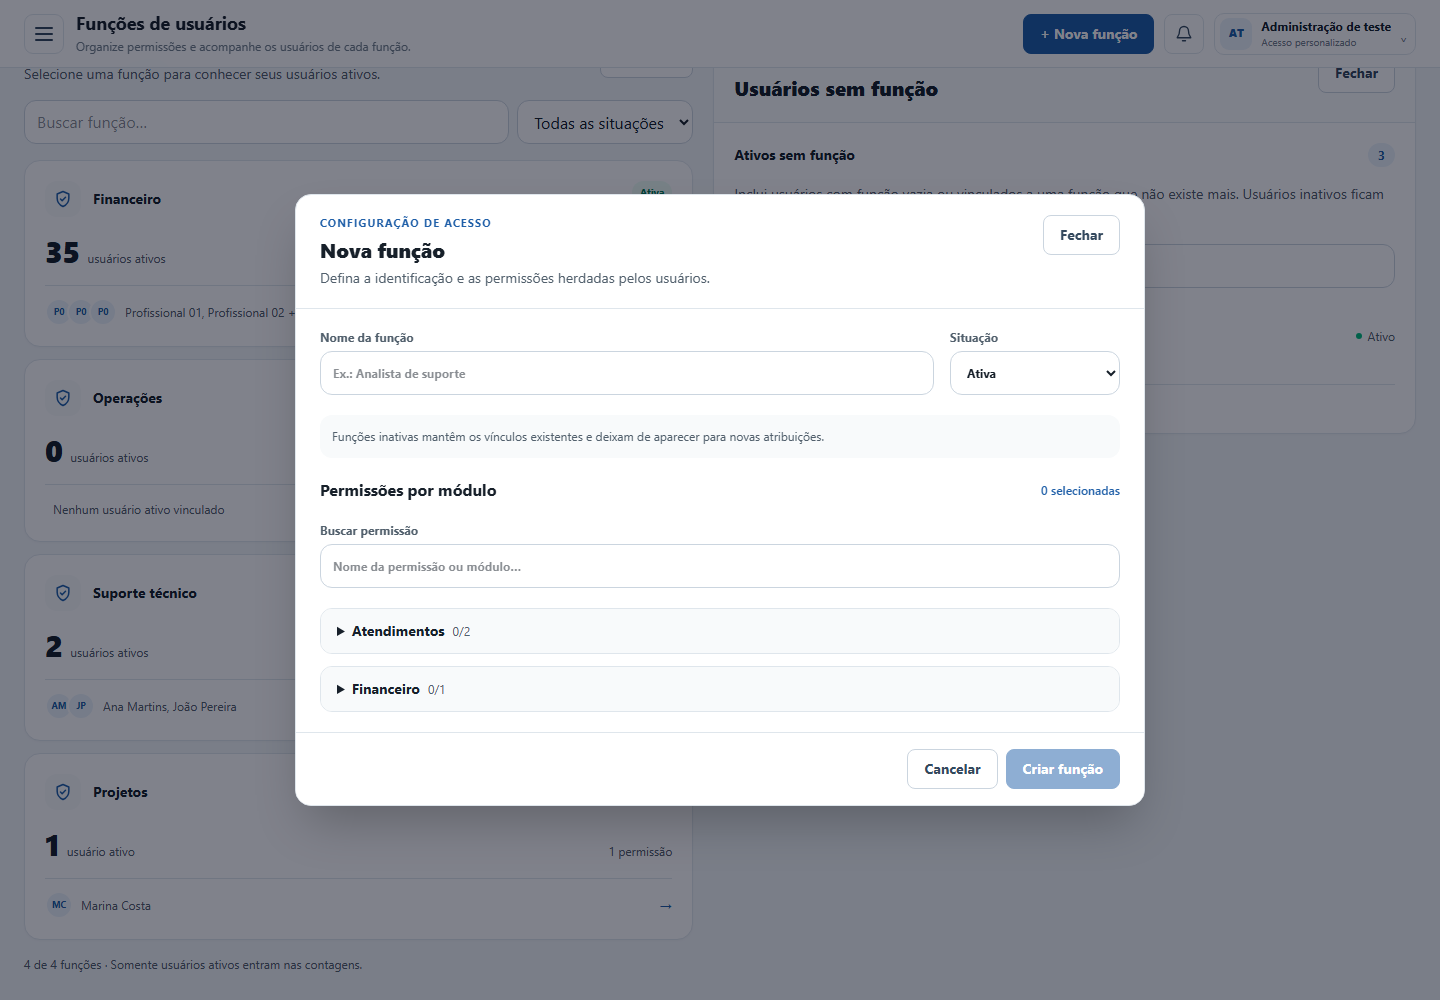
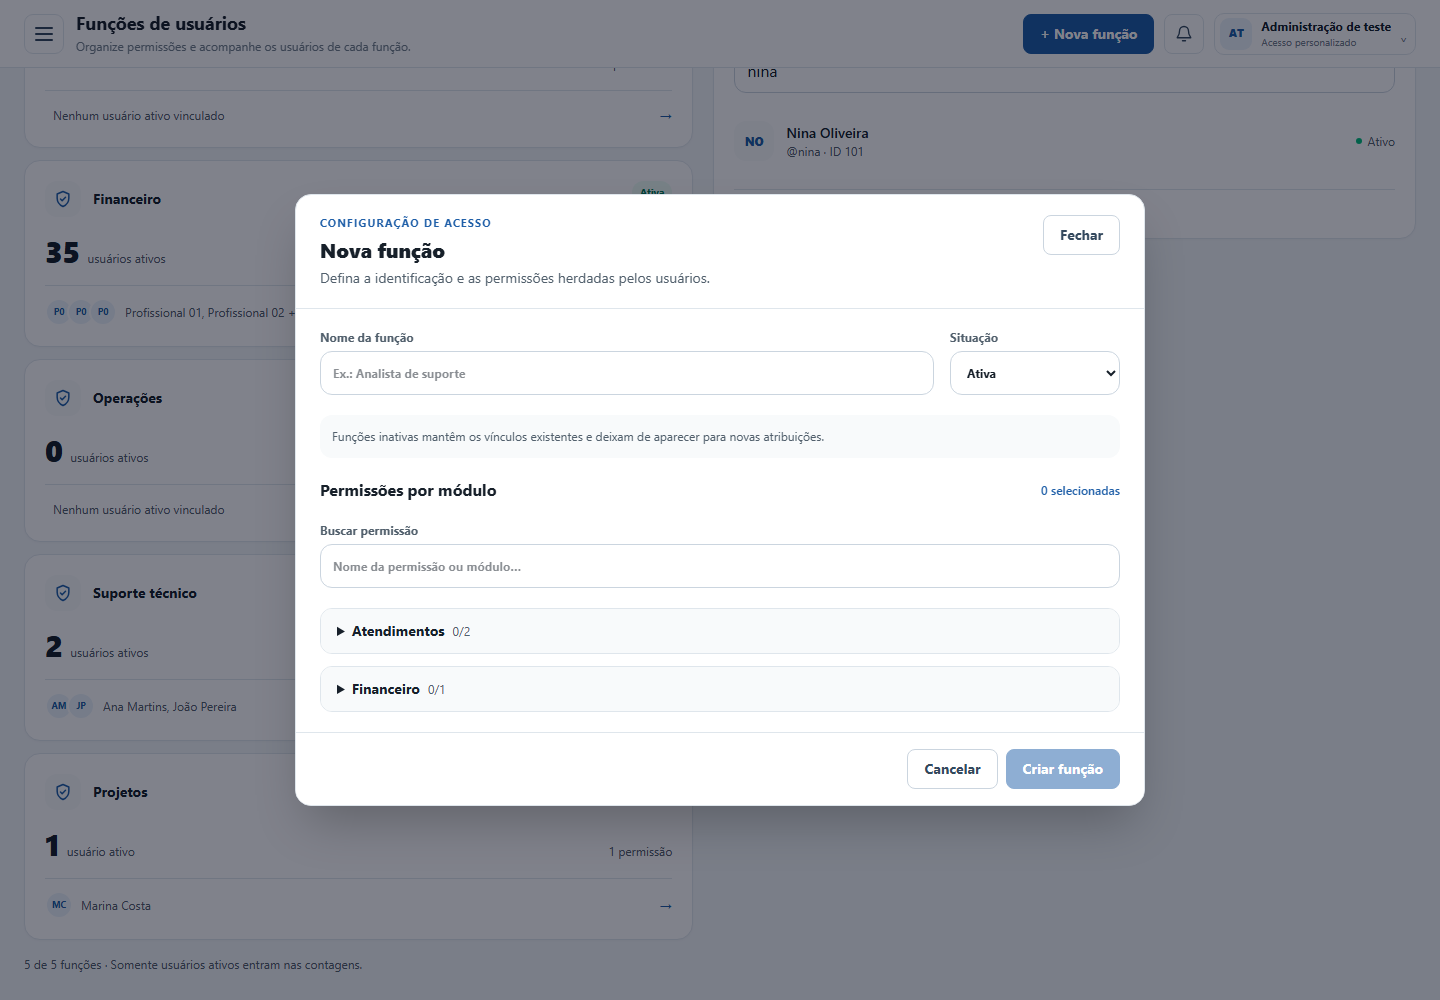
fix(users): allow deleting functions without active users

diff --git a/apps/web/src/modules/users/components/user-functions-screen.tsx b/apps/web/src/modules/users/components/user-functions-screen.tsx
@@ -1,6 +1,6 @@
 "use client";
 
-import type { CurrentUserResponse, UserFunctionInput } from '@helpdesk/contracts';
+import type { CurrentUserResponse, UserFunctionInput, UserFunctionSummary } from '@helpdesk/contracts';
 import { useEffect, useMemo, useState } from 'react';
 import { AppPageHeader } from '../../../shared/navigation/app-page-header';
 import { NavigationIcon } from '../../../shared/navigation/navigation-icon';
@@ -27,6 +27,7 @@ export function UserFunctionsScreen({ currentUser }: { currentUser: CurrentUserR
   const [selection, setSelection] = useState<Selection>(null);
   const [editor, setEditor] = useState<number | 'new' | null>(null);
   const [loading, setLoading] = useState(true);
+  const [deleting, setDeleting] = useState(false);
   const [search, setSearch] = useState('');
   const [status, setStatus] = useState('all');
   const [error, setError] = useState('');
@@ -67,11 +68,15 @@ export function UserFunctionsScreen({ currentUser }: { currentUser: CurrentUserR
     setSuccess(editor === 'new' ? 'Função criada com sucesso.' : 'Função atualizada com sucesso.');
     setEditor(null); setSelection(result.id); await reload();
   }
-  async function remove() {
-    if (!editorInitial || editorInitial.linkedUserCount > 0) return;
-    if (!window.confirm(`Excluir a função "${editorInitial.name}"?`)) return;
-    await deleteUserFunction(editorInitial.id);
-    setEditor(null); setSelection(null); setSuccess('Função excluída.'); await reload();
+  async function remove(target: UserFunctionSummary) {
+    if (target.activeUserCount > 0) return;
+    const note = target.linkedUserCount > 0 ? ` Os ${target.linkedUserCount} cadastros vinculados serão preservados e ficarão sem função.` : '';
+    if (!window.confirm(`Excluir a função "${target.name}"?${note}`)) return;
+    setDeleting(true); setError('');
+    try {
+      await deleteUserFunction(target.id);
+      setEditor(null); setSelection(null); setSuccess('Função excluída. Os cadastros de usuários foram preservados.'); await reload();
+    } finally { setDeleting(false); }
   }
 
   return <main className="min-h-screen bg-app-bg text-app-text max-sm:[&>header]:flex-wrap max-sm:[&>header]:gap-2 max-sm:[&>header>div:last-child]:w-full">
@@ -106,7 +111,7 @@ export function UserFunctionsScreen({ currentUser }: { currentUser: CurrentUserR
 
         {hasDetails ? <section className={`${CARD} min-w-0 overflow-hidden`} aria-labelledby="function-details-title">
           <header className="border-b border-app-border bg-app-surface-muted/50 p-5"><div className="flex items-start justify-between gap-3"><div><p className="mb-1 mt-0 text-[11px] font-bold uppercase tracking-widest text-app-muted">{isUnassigned ? 'Revisão de cadastros' : 'Detalhes da função'}</p><h2 id="function-details-title" className="m-0 break-words text-xl font-extrabold">{isUnassigned ? 'Usuários sem função' : selected?.name}</h2></div><button type="button" className={SECONDARY} aria-label="Fechar detalhes da função" onClick={() => setSelection(null)}>Fechar</button></div>
-            {selected ? <div className="mt-4 flex flex-wrap items-center justify-between gap-2"><span className="text-xs text-app-muted">{selected.linkedUserCount} vínculos no total, incluindo usuários inativos</span><button type="button" className={SECONDARY} disabled={loading} onClick={() => { setEditor(selected.id); setSuccess(''); }}>Editar função</button></div> : null}
+            {selected ? <div className="mt-4 grid gap-3"><span className="text-xs text-app-muted">{selected.linkedUserCount} vínculos no total, incluindo usuários inativos</span><div className="flex flex-wrap gap-2"><button type="button" className={SECONDARY} disabled={loading || deleting} onClick={() => { setEditor(selected.id); setSuccess(''); }}>Editar função</button><button type="button" className={SECONDARY} disabled={loading || deleting || selected.activeUserCount > 0} title={selected.activeUserCount > 0 ? 'Esta função possui usuários ativos.' : 'Excluir a função e preservar os cadastros inativos.'} onClick={() => void remove(selected).catch(reason => setError(functionApiMessage(reason)))}>{deleting ? 'Excluindo…' : 'Excluir função'}</button></div>{selected.activeUserCount === 0 ? <span className="text-xs text-app-muted">Sem usuários ativos: a função pode ser excluída. Os cadastros inativos serão mantidos e ficarão sem função.</span> : null}</div> : null}
             {selected?.status === 2 ? <p className="mb-0 mt-3 text-xs text-app-muted">Esta função está inativa, mas mantém os usuários já vinculados.</p> : null}
           </header>
           <div className="p-5"><UserFunctionMembers key={String(selection)} users={selectedMembers} unassigned={isUnassigned} /></div>
@@ -114,6 +119,6 @@ export function UserFunctionsScreen({ currentUser }: { currentUser: CurrentUserR
         </section> : null}
       </div>
     </div>
-    {editor !== null && data ? <UserFunctionEditor key={editor} initial={editorInitial} permissions={data.permissions} onSave={save} onDelete={editorInitial ? remove : undefined} onClose={() => setEditor(null)} /> : null}
+    {editor !== null && data ? <UserFunctionEditor key={editor} initial={editorInitial} permissions={data.permissions} onSave={save} onDelete={editorInitial ? () => remove(editorInitial) : undefined} onClose={() => setEditor(null)} /> : null}
   </main>;
 }

diff --git a/apps/api/src/modules/users/infrastructure/user-functions.repository.ts b/apps/api/src/modules/users/infrastructure/user-functions.repository.ts
@@ -17,7 +17,6 @@ type FunctionRow = {
   linked_user_count: number | bigint;
 };
 type IdRow = { id: number | bigint };
-type CountRow = { total: number | bigint };
 type PermissionRow = { id: number | bigint; name: string; slug: string; module: string; description: string | null };
 type PermissionLinkRow = { function_id: number; permission_id: number | bigint };
 
@@ -116,20 +115,22 @@ export class UserFunctionsRepository {
   }
 
   async remove(id: number): Promise<void> {
-    await this.assertExists(id);
-    const rows = await this.database.$queryRawUnsafe<CountRow[]>(
-      'SELECT COUNT(*) AS total FROM usuarios WHERE user_funcao = ?',
-      id,
-    );
-    const linked = Number(rows[0]?.total ?? 0);
-    if (linked > 0) {
-      throw new ConflictException(
-        `Esta função possui ${linked} usuário(s) vinculado(s). Remova os vínculos ou deixe a função inativa antes de excluí-la.`,
-      );
-    }
     await this.database.$transaction(async (transaction) => {
-      await transaction.$executeRawUnsafe('DELETE FROM cargos_n3 WHERE cargo_id = ?', id);
-      await transaction.$executeRawUnsafe('DELETE FROM roles WHERE slug = ?', `function-${id}`);
+      const functions = await transaction.$queryRawUnsafe<IdRow[]>(
+        'SELECT cargo_id AS id FROM dbo.cargos_n3 WITH (XLOCK, HOLDLOCK) WHERE cargo_id = @P1', id,
+      );
+      if (!functions[0]) throw new NotFoundException('Função de usuário não encontrada.');
+      const users = await transaction.$queryRawUnsafe<Array<{ user_sts: number | null }>>(
+        'SELECT user_sts FROM dbo.usuarios WITH (UPDLOCK, HOLDLOCK) WHERE user_funcao = @P1', id,
+      );
+      const active = users.filter(user => user.user_sts === 1).length;
+      if (active > 0) throw new ConflictException(
+        `Esta função possui ${active} usuário(s) ativo(s). Reatribua ou desative esses usuários antes de excluí-la.`,
+      );
+      // Preserve inactive accounts, clearing their assignment before removing the function.
+      await transaction.$executeRawUnsafe('UPDATE dbo.usuarios SET user_funcao = NULL WHERE user_funcao = @P1', id);
+      await transaction.$executeRawUnsafe('DELETE FROM dbo.cargos_n3 WHERE cargo_id = @P1', id);
+      await transaction.$executeRawUnsafe('DELETE FROM dbo.roles WHERE slug = @P1', `function-${id}`);
     });
   }
 

diff --git a/apps/api/src/modules/users/infrastructure/users.repository.ts b/apps/api/src/modules/users/infrastructure/users.repository.ts
@@ -1,4 +1,4 @@
-import { Inject, Injectable } from '@nestjs/common';
+import { Inject, Injectable, NotFoundException } from '@nestjs/common';
 import type {
   AccessPermissionItem,
   CreateManagedUserRequest,
@@ -277,6 +277,7 @@ export class UsersRepository {
     canManageAccess: boolean,
   ): Promise<number> {
     return this.database.$transaction(async (transaction) => {
+      await this.assertFunctionExists(transaction, input.functionId);
       const ids = await transaction.$queryRawUnsafe<InsertIdRow[]>(
         `INSERT INTO usuarios
           (user_sts, user_nome, user_mail, user_cel, user_funcao, user_login,
@@ -303,6 +304,7 @@ export class UsersRepository {
     assignedBy: number,
   ): Promise<boolean> {
     return this.database.$transaction(async (transaction) => {
+      await this.assertFunctionExists(transaction, input.functionId);
       const changed = await transaction.$executeRawUnsafe(
         `UPDATE usuarios SET user_sts = ?, user_nome = ?, user_mail = ?,
           user_cel = ?, user_funcao = ?, user_login = ?, tipo_usuario = ?,
@@ -319,6 +321,13 @@ export class UsersRepository {
       }
       return true;
     });
+  }
+
+  private async assertFunctionExists(transaction: Pick<Nivel3DatabaseClient, '$queryRawUnsafe'>, functionId: number) {
+    const rows = await transaction.$queryRawUnsafe<Array<{ id: number }>>(
+      'SELECT cargo_id AS id FROM dbo.cargos_n3 WITH (HOLDLOCK) WHERE cargo_id = @P1', functionId,
+    );
+    if (!rows.length) throw new NotFoundException('A função selecionada não existe mais. Atualize o cadastro e escolha outra função.');
   }
 
   async deactivate(id: number): Promise<boolean> {

diff --git a/apps/web/src/modules/users/components/user-function-editor.tsx b/apps/web/src/modules/users/components/user-function-editor.tsx
@@ -63,7 +63,7 @@ export function UserFunctionEditor({ initial, permissions, onSave, onDelete, onC
         </fieldset>
       </form>
       <footer className="flex flex-wrap justify-end gap-2 border-t border-app-border bg-app-surface px-6 py-4">
-        {initial && onDelete ? <button type="button" className={`${appButtonClass('secondary')} mr-auto`} disabled={busy || initial.linkedUserCount > 0} title={initial.linkedUserCount > 0 ? 'Esta função possui usuários vinculados, incluindo inativos.' : undefined} onClick={async () => { setBusy(true); setError(''); try { await onDelete(); } catch (reason) { setError(functionApiMessage(reason)); } finally { setBusy(false); } }}>Excluir função</button> : null}
+        {initial && onDelete ? <button type="button" className={`${appButtonClass('secondary')} mr-auto`} disabled={busy || initial.activeUserCount > 0} title={initial.activeUserCount > 0 ? 'Reatribua ou desative os usuários ativos antes de excluir.' : 'Os cadastros inativos serão preservados e ficarão sem função.'} onClick={async () => { setBusy(true); setError(''); try { await onDelete(); } catch (reason) { setError(functionApiMessage(reason)); } finally { setBusy(false); } }}>Excluir função</button> : null}
         <button type="button" className={appButtonClass('secondary')} disabled={busy} onClick={() => dialog.current?.close()}>Cancelar</button>
         <button type="submit" form="user-function-editor-form" className={appButtonClass('primary')} disabled={busy || !form.name.trim()}>{busy ? 'Salvando…' : initial ? 'Salvar alterações' : 'Criar função'}</button>
       </footer>

diff --git a/apps/api/src/modules/users/presentation/http/user-functions.controller.ts b/apps/api/src/modules/users/presentation/http/user-functions.controller.ts
@@ -94,7 +94,7 @@ export class UserFunctionsController {
 
   @Delete(':id')
   @HttpCode(HttpStatus.NO_CONTENT)
-  @ApiOperation({ summary: 'Excluir função de usuário sem vínculos' })
+  @ApiOperation({ summary: 'Excluir função sem usuários ativos, preservando os cadastros inativos' })
   async remove(@Param('id', ParseIntPipe) id: number): Promise<void> {
     if (id < 1) throw new BadRequestException('id inválido.');
     await this.management.remove(id);

diff --git a/docs/user-functions-2026-10-28.md b/docs/user-functions-2026-10-28.md
@@ -2,7 +2,7 @@
 
 A página passa a separar consulta e edição. A entrada mostra funções em cards com situação, quantidade de permissões e prévia dos usuários ativos. Selecionar uma função abre os nomes e logins dos usuários, com busca e paginação de 30 registros. O resumo mostra funções cadastradas, usuários ativos, ativos com função e ativos sem função; o último card abre a lista para revisão.
 
-O formulário não é renderizado na entrada. **Nova função** e **Editar função** abrem uma janela com foco no nome, navegação por teclado, fechamento com Escape e retorno do foco ao botão. As permissões ficam agrupadas em módulos expansíveis. Criar, editar e excluir mantêm o comportamento da API existente; a exclusão continua bloqueada quando há qualquer usuário vinculado, inclusive inativo.
+O formulário não é renderizado na entrada. **Nova função** e **Editar função** abrem uma janela com foco no nome, navegação por teclado, fechamento com Escape e retorno do foco ao botão. As permissões ficam agrupadas em módulos expansíveis. A exclusão fica disponível nos detalhes e na edição quando não há usuários ativos. Cadastros inativos vinculados são preservados e ficam sem função; a confirmação explica esse efeito. Com usuários ativos, a interface bloqueia o botão e a API responde com conflito.
 
 `GET /api/user-functions/active-users` retorna somente ID, nome, login e ID da função para usuários com `user_sts = 1`. A consulta inclui funções inativas ainda cadastradas como vínculos válidos. Funções vazias, zeradas ou inexistentes entram em **sem função**. Os totais derivam da mesma consulta que retorna os usuários. O endpoint exige sessão e `system.admin`, e usa `Cache-Control: private, no-store`.
 
@@ -12,7 +12,13 @@ Validação:
 - `pnpm test:user-functions`: SQL Server com fixtures CTE somente de leitura, cobrindo usuários inativos, função inativa e vínculos nulos, zero ou inexistentes; HTTP 401/403/200 com o guard real de permissões.
 - `pnpm test:user-functions:ui`: navegador Edge com API totalmente simulada; formulário fechado na entrada, listas de usuários, busca, paginação, criação/edição/exclusão, foco, Escape e largura mobile. Nenhuma exceção JavaScript.
 - Consulta somente de leitura no banco da instalação: 19 funções, 55 usuários ativos, 55 com função e zero sem função. Os totais por função coincidiram com o resumo anterior. Esses números são uma conferência desta entrega; a tela sempre consulta os valores atuais.
-- Nenhuma alteração de esquema ou escrita em cadastros reais. Testes de operações de escrita usam exclusivamente a API simulada do navegador.
+- Nenhuma alteração de esquema permanente ou escrita em cadastros reais. Operações de teste usam a API simulada do navegador e tabelas temporárias com rollback no SQL Server.
+
+## Exclusão sem usuários ativos
+
+A API verifica os usuários e remove a função na mesma transação. Antes da exclusão, limpa somente a atribuição da função nos cadastros não ativos, sem excluir esses usuários ou alterar suas situações. O papel de permissões da função é removido como no fluxo anterior. Bloqueios transacionais protegem a conferência e o cadastro; a criação/edição de usuários confere a existência da função dentro da própria transação, evitando que um formulário antigo atribua uma função já excluída.
+
+`pnpm test:user-functions` também testa exclusão sem vínculos, preservação de inativos, bloqueio por ativos, função inexistente, rollback após falha e recusa de atribuição a função excluída. Essas operações usam exclusivamente tabelas temporárias do SQL Server em uma transação revertida; nenhum cadastro real é removido. O teste de navegador inclui exclusão com dois vínculos inativos simulados e o aviso de preservação.
 
 ## Prévia com dados sintéticos
 
